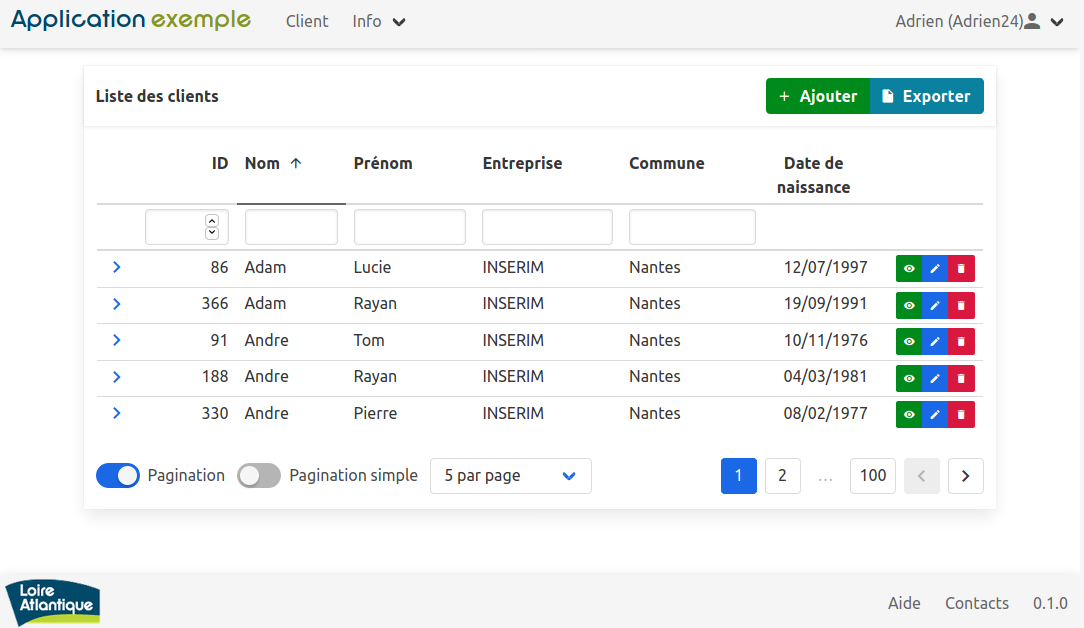
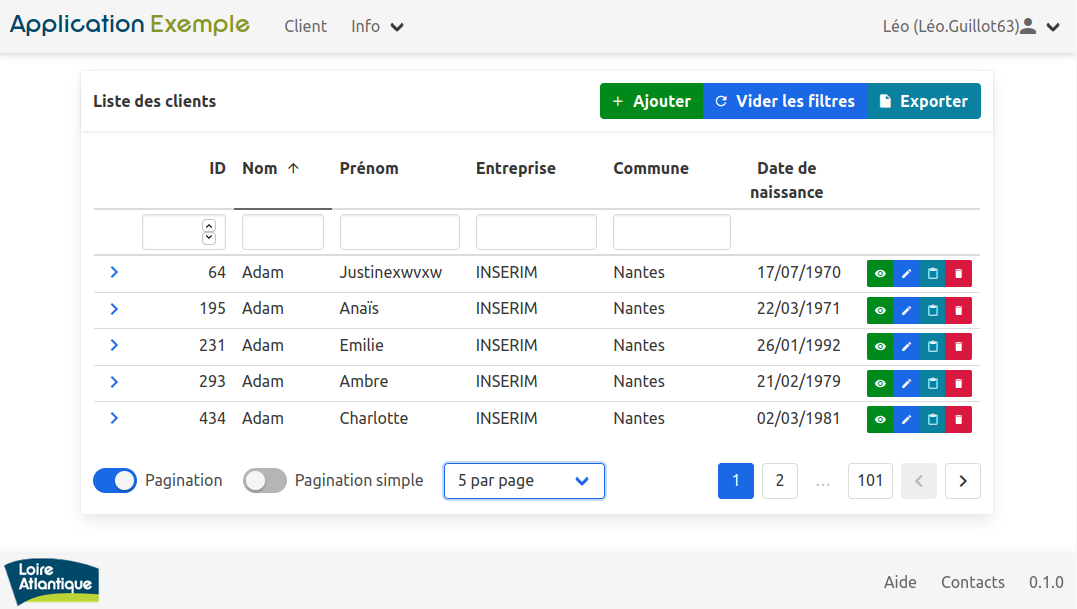
Mise à jour de la documentation

diff --git a/docs/guide/composant.md b/docs/guide/composant.md
@@ -142,6 +142,10 @@ Avec utilisation du slot par défaut
 
 ::::
 
+::: tip Note
+Le libellé du bouton est caché en version mobile. Seul l'icône persiste.
+:::
+
 ## En tête de tableau
 
 Ce composant nommé 'TabHeader` permet de gérer les en-têtes de tableau.
@@ -149,9 +153,11 @@ Ce composant nommé 'TabHeader` permet de gérer les en-têtes de tableau.
 Par défaut, il permet d'afficher 2 boutons :
 
 - **Ajouter** pour naviguer ver la page d'ajout d'un composant
+- **Vider les filtres** pour effacer les filtres sauvegardés
 - **Exporter** pour déclencher l'export CSV
 
-Ces 2 boutons peuvent être cachés.
+Ces 3 boutons peuvent être cachés.
+Le bouton **Vider les filtres** est cachée en mobile car les filtres d'en-tête de colonne ne sont pas visibles en mobile.
 
 On peut ajouter aussi des boutons avant et après avec 2 slots `before` et `after`.
 
@@ -168,20 +174,22 @@ On peut ajouter aussi des boutons avant et après avec 2 slots `before` et `afte
 
 ::: tab Propriétés
 
-| Nom          | Description                         | Type                 | Obligatoire | Valeur par Défaut |
-| ------------ | ----------------------------------- | -------------------- | ----------- | ----------------- |
-| title        | Titre de l'en-tête                  | Chaîne de caractères | Oui         |                   |
-| isAdd        | Affichage ou non du bouton d'ajout  | Booléen              | Non         |                   |
-| isExportable | Affichage ou non du bouton d'export | Booléen              | Non         |                   |
+| Nom             | Description                                       | Type                 | Obligatoire | Valeur par Défaut |
+| --------------- | ------------------------------------------------- | -------------------- | ----------- | ----------------- |
+| title           | Titre de l'en-tête                                | Chaîne de caractères | Oui         |                   |
+| is-add          | Affichage ou non du bouton d'ajout                | Booléen              | Non         |                   |
+| is-empty-filter | Affichage ou non du bouton pour vider les filtres | Booléen              | Non         |                   |
+| is-exportable   | Affichage ou non du bouton d'export               | Booléen              | Non         |                   |
 
 :::
 
 ::: tab Évènements
 
-| Nom          | Description                            |
-| ------------ | -------------------------------------- |
-| click-add    | Déclenché sur le clic du bouton ajout  |
-| click-export | Déclenché sur le clic du bouton export |
+| Nom                | Description                                       |
+| ------------------ | ------------------------------------------------- |
+| click-add          | Déclenché sur le clic du bouton ajout             |
+| click-empty-filter | Déclenché sur le clic du bouton vider les filtres |
+| click-export       | Déclenché sur le clic du bouton export            |
 
 :::
 
@@ -195,6 +203,10 @@ On peut ajouter aussi des boutons avant et après avec 2 slots `before` et `afte
 :::
 
 ::::
+
+::: tip Note
+La sauvegarde des filtres dans le store se fait lors d'un clic sur un bouton de l'utilisateur. Il faut alors sur cet évènement déclenché la sauvegarde des filtres dans le store
+:::
 
 ## Résultat vide
 
@@ -221,22 +233,24 @@ Des boutons peuvent être ajoutés avant ou après ces boutons via des slots. Le
 
 ::: tab Propriétés
 
-| Nom         | Description                                | Type                 | Obligatoire | Valeur par Défaut |
-| ----------- | ------------------------------------------ | -------------------- | ----------- | ----------------- |
-| libelle     | Libellé à afficher lors de la suppression  | Chaîne de caractères | Oui         |                   |
-| isReadable  | Affichage ou non du bouton de consultation | Booléen              | Non         |                   |
-| isEditable  | Affichage ou non du bouton de modification | Booléen              | Non         |                   |
-| isDeletable | Affichage ou non du bouton de suppression  | Booléen              | Non         |                   |
+| Nom           | Description                                | Type                 | Obligatoire | Valeur par Défaut |
+| ------------- | ------------------------------------------ | -------------------- | ----------- | ----------------- |
+| libelle       | Libellé à afficher lors de la suppression  | Chaîne de caractères | Oui         |                   |
+| is-readable   | Affichage ou non du bouton de consultation | Booléen              | Non         |                   |
+| is-editable   | Affichage ou non du bouton de modification | Booléen              | Non         |                   |
+| is-duplicable | Affichage ou non du bouton de duplication  | Booléen              | Non         |                   |
+| is-deletable  | Affichage ou non du bouton de suppression  | Booléen              | Non         |                   |
 
 :::
 
 ::: tab Évènements
 
-| Nom          | Description                                  |
-| ------------ | -------------------------------------------- |
-| click-read   | Déclenché sur le clic du bouton consultation |
-| click-edit   | Déclenché sur le clic du bouton modification |
-| click-remove | Déclenché sur la confirmation de suppression |
+| Nom             | Description                                  |
+| --------------- | -------------------------------------------- |
+| click-read      | Déclenché sur le clic du bouton consultation |
+| click-edit      | Déclenché sur le clic du bouton modification |
+| click-duplicate | Déclenché sur le clic du bouton duplication  |
+| click-remove    | Déclenché sur la confirmation de suppression |
 
 :::
 

diff --git a/docs/guide/store.md b/docs/guide/store.md
@@ -196,6 +196,52 @@ this.$store.dispatch('addNotificationError', 'Message erreur')
 this.$store.dispatch('addNotificationWarning', 'Message avertissement')
 ```
 
+## Filter
+
+Ce module permet de gérer et de sauvegarder les filtres d'en-tête de colonne pour chaque tableau de l'application.
+
+Voici les éléments qui sont stockés par pagination de tableau :
+
+- `id` : identifiant du tableau de filtres
+- `filters` : objet composé d'attributs comprenant chaque filtre
+
+Chaque collection de filtres est stockée de la manière suivante dans un tableau avec pour chacune un attribut `id` qui permet de la retrouver :
+
+```json
+"filters": [
+  {
+  "id": "clients",
+  "filters": {
+    "nom": "adam",
+    "prenom": "leo",
+    "entreprise.libelle" : "inserim"
+  }
+]
+```
+
+### Comportement
+
+- Lors de l'enregistrement d'une collection de filtres :
+  - Si elle n'existe pas, elle est crée
+  - Si elle existe, elle est mise à jour
+
+### Utilisation
+
+**Récupération des filtres pour un tableau**
+
+```javascript
+this.$store.getters.getFilterById(this.id)
+```
+
+**Enregistrement des filtres pour un tableau**
+
+```javascript
+this.$store.commit('SAVE_FILTERS', {
+  id: this.id,
+  filters: this.$refs[this.id].filters
+})
+```
+
 ## Pagination
 
 Ce module permet de gérer et de sauvegarder le comportement de la pagination pour chaque tableau de l'application.
@@ -206,7 +252,7 @@ Voici les éléments qui sont stockés par pagination de tableau :
 - Pagination simple ou non `isSimplePagination`
 - Nombre d'éléments par page `perPage`
 
-Chaque pagination est stockée de la manière suivante dans un tableau avec pour chacune un attribut `id` qui permet de la retrouver :
+Chaque pagination est stockée de la manière suivante dans un tableau avec pour chacun un attribut `id` qui permet de la retrouver :
 
 ```json
 "paginations": [

diff --git a/docs/guide/configuration.md b/docs/guide/configuration.md
@@ -16,16 +16,27 @@ module.exports = {
       errors: true
     }
   },
-  assetsDir: 'static'
+  assetsDir: 'static',
+  chainWebpack: config => {
+    config.plugin('html').tap(args => {
+      args[0].title = 'Poc buefy'
+      return args
+    })
+  }
 }
 ```
 
-4 choses sont effectuées dans ce fichier :
+5 choses sont effectuées dans ce fichier :
 
 - Ajouter un proxy vers notre API Rest sur `http://localhost:3000` pour rediriger vers `http://localhost:8081/` pour éviter les problèmes de **CORS** en développement.
 - Fixer le port de l'application à **8081** pour éviter les collisions avec **Tomcat** qui démarre sur le port **8080** sur nos applications métiers.
 - Forcer l'affichage des erreurs en surimpression sur le navigateur en développement. Ainsi le développeur est obligé de les corriger si il veut continuer à travailler.
 - Générer les fichiers statiques js, css, images, fonts dans un répertoire `static` plutôt qu'à la racine.
+- Définition du titre de l'application réutilisée dans le fichier `index.html` :
+
+```html
+<title><%= htmlWebpackPlugin.options.title %></title>
+```
 
 ## Configuration lint Prettier
 
